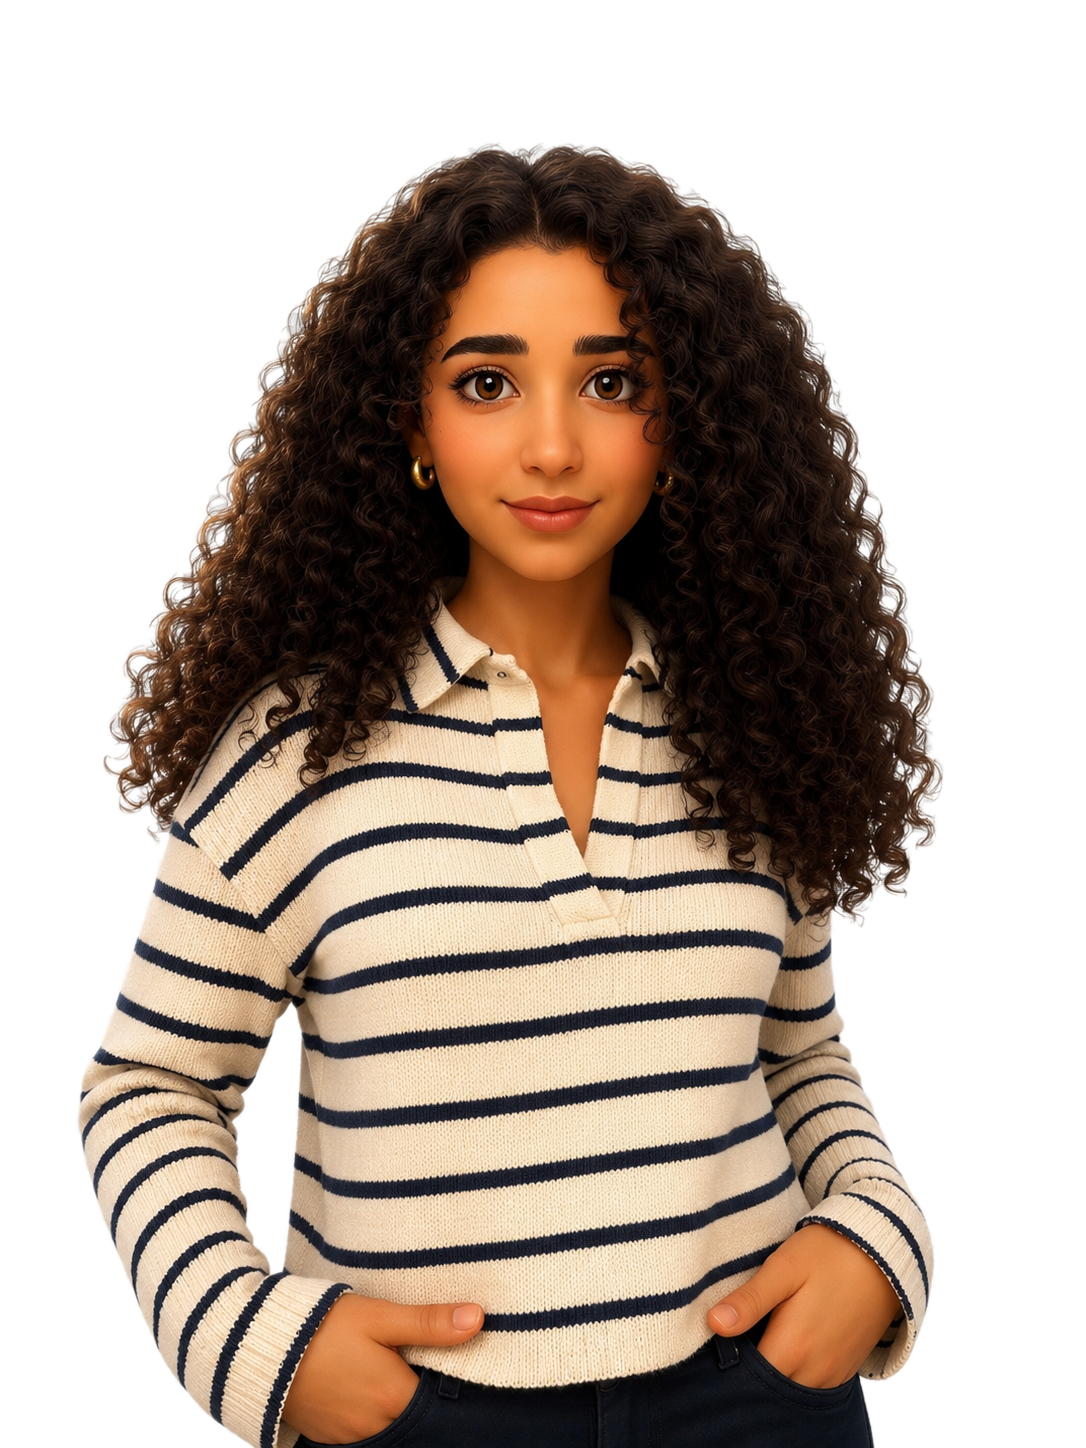
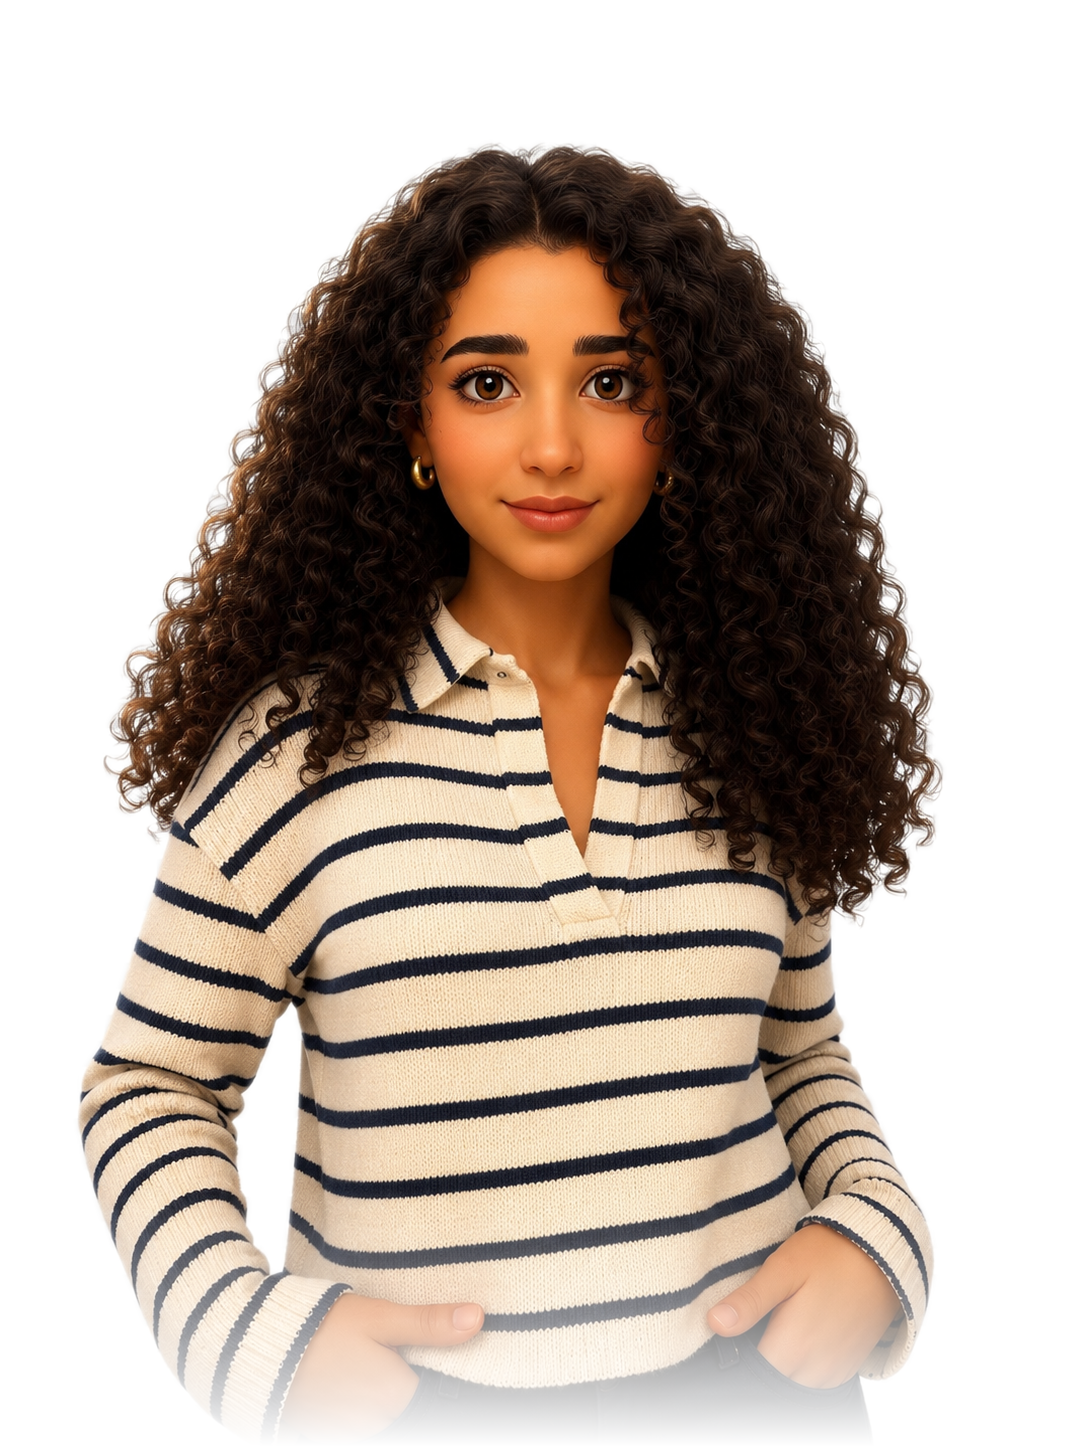
More interesting hero photo treatment: soft glow + feathered crop
- Re-extracted the alpha mask with a softer feather (was a slightly
  hard/crisp cutout edge around the hair) and added a bottom fade so
  the waist-level crop dissolves into the dark background instead of
  ending in a hard rectangular line.
- Added a subtle warm radial glow (--accent, low opacity) behind the
  photo in index.html so it reads as lit/integrated rather than a
  flat cutout floating on black.

Changed region(s): [[0.1215, 0.8391, 0.8812, 1.0]]

diff --git a/index.html b/index.html
@@ -97,7 +97,19 @@
     transition: color 0.2s ease, border-color 0.2s ease;
   }
   .hero-contacts a:hover { color: var(--accent); border-color: var(--accent); }
-  .hero-photo-wrap { flex-shrink: 0; width: min(30vw, 280px); opacity: 0.96; }
+  .hero-photo-wrap {
+    position: relative;
+    flex-shrink: 0;
+    width: min(30vw, 280px);
+    opacity: 0.96;
+  }
+  .hero-photo-wrap::before {
+    content: "";
+    position: absolute;
+    inset: -12% -30% -4%;
+    background: radial-gradient(closest-side, rgba(184, 131, 106, 0.22), transparent 72%);
+    z-index: -1;
+  }
   .hero-photo-wrap img { display: block; width: 100%; height: auto; }
 
   @media (prefers-reduced-motion: reduce) {
